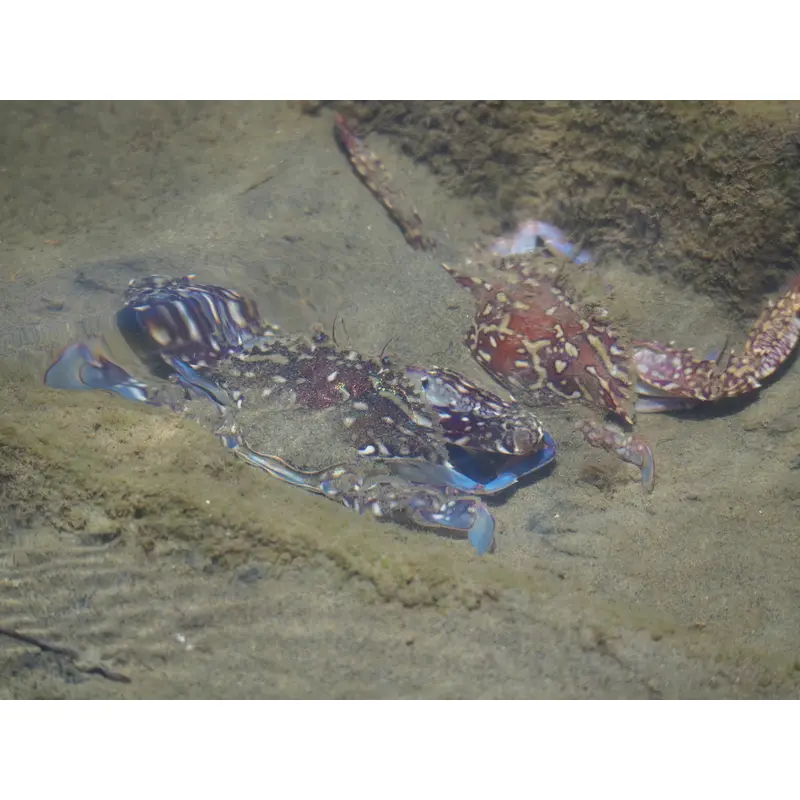
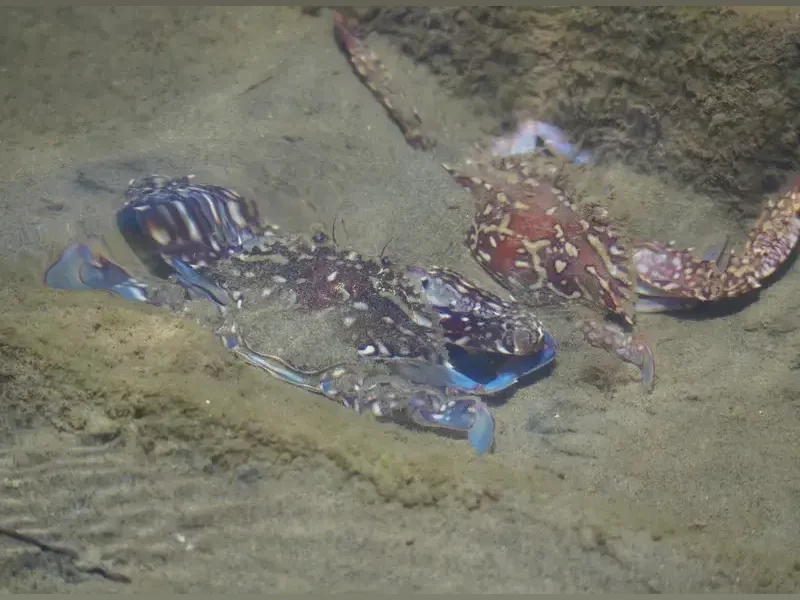
Add Buy now beside Add to cart; make catalogue photos fill the card
Buy now sits next to Add to cart on product cards and in the options sheet,
stacking on narrow cards. Products with more than one preparation or quantity
open the options sheet first. The chosen item goes to /checkout?buy=now, kept
in its own session slot so the cart is untouched; the existing server quote
still prices it.

Seven catalogue photos had white bands baked into square files. They are
trimmed and filled to 4:3 with their own background colour.

diff --git a/src/components/checkout/checkout-content.tsx b/src/components/checkout/checkout-content.tsx
@@ -4,7 +4,7 @@ import Link from "next/link";
 import { reviewCheckout, placeCheckout } from "@/app/checkout/actions";
 import { useRouter } from "next/navigation";
 import { useRef, useState, type FormEvent } from "react";
-import { useCart, clearCart } from "@/lib/cart-store";
+import { useCart, clearCart, useBuyNow, clearBuyNow } from "@/lib/cart-store";
 import { serializeCart } from "@/lib/cart";
 import { orderTotals, validateCheckout } from "@/lib/order";
 import { saveCheckoutDraft, savePendingCheckout, useOrderState } from "@/lib/order-store";
@@ -21,8 +21,12 @@ const fields = [
   { key: "state", label: "State", autoComplete: "address-level1", max: 120 },
   { key: "pincode", label: "Pincode", autoComplete: "postal-code", max: 6 },
 ] as const;
-export function CheckoutContent() {
-  const items = useCart();
+export function CheckoutContent({ buyNow = false }: { buyNow?: boolean }) {
+  const cart = useCart();
+  const buyNowItems = useBuyNow();
+  // Buy now checks out only its own item; the cart is left as it was.
+  const items = buyNow ? buyNowItems : cart;
+  const clearItems = buyNow ? clearBuyNow : clearCart;
   const { ready, draft, pending } = useOrderState();
   const router = useRouter();
   const [quote, setQuote] = useState<Awaited<ReturnType<typeof reviewCheckout>>["quote"]>();
@@ -55,7 +59,7 @@ export function CheckoutContent() {
       finally {submitting.current=false;setSaving(false);}
       return;
     }
-    if (reviewedCart !== serializeCart(items)) { setReview(false); setError("Your cart changed. Please review the updated summary before placing your order."); focusTitle(); return; }
+    if (reviewedCart !== serializeCart(items)) { setReview(false); setError((buyNow ? "Your item" : "Your cart") + " changed. Please review the updated summary before placing your order."); focusTitle(); return; }
     submitting.current = true; setSaving(true);
     try {
       if (!quote) throw new Error("Review your order first.");
@@ -63,7 +67,7 @@ export function CheckoutContent() {
       const order = await placeCheckout(quote.envelope);
       if ("error" in order) {if(order.reviewRequired){savePendingCheckout(null);setReview(false);}throw new Error(order.error);}
       savePendingCheckout(null);
-      clearCart();
+      clearItems();
       router.replace("/order-confirmation/" + order.trackingToken);
     } catch (cause) {
       setError(cause instanceof Error ? cause.message : "Could not place your order. Please try again.");
@@ -73,15 +77,15 @@ export function CheckoutContent() {
   async function retryPending() {
     if(!pending||submitting.current)return;
     submitting.current=true;setSaving(true);
-    try {const result=await placeCheckout(pending);if("trackingToken" in result){savePendingCheckout(null);clearCart();router.replace("/order-confirmation/"+result.trackingToken);}else{if(result.reviewRequired){savePendingCheckout(null);setReview(false);}setError(result.error);}}
+    try {const result=await placeCheckout(pending);if("trackingToken" in result){savePendingCheckout(null);clearItems();router.replace("/order-confirmation/"+result.trackingToken);}else{if(result.reviewRequired){savePendingCheckout(null);setReview(false);}setError(result.error);}}
     catch {setError("Connection interrupted. Retry this same pending order to check confirmation.");}
     finally {submitting.current=false;setSaving(false);}
   }
   if (ready && pending) return <div className="container page-section"><h1>Confirm your pending order</h1><p>A previous submission needs confirmation. Retry the same order to avoid placing it twice.</p>{error&&<p role="alert">{error}</p>}<button className="button primary" disabled={saving} onClick={retryPending}>{saving?"Checking…":"Check order confirmation"}</button></div>;
   if (!ready) return <div className="container page-section"><p role="status">Loading your checkout...</p></div>;
-  if (!items.length && !saving) return <div className="container page-section"><p className="eyebrow">Checkout</p><h1>Your cart is empty</h1><p>Add a selection before starting checkout.</p><Link className="button secondary" href="/search">Continue shopping</Link></div>;
+  if (!items.length && !saving) return <div className="container page-section"><p className="eyebrow">Checkout</p><h1>{buyNow ? "Nothing to buy yet" : "Your cart is empty"}</h1><p>{buyNow ? "Choose a product and press Buy now to check it out on its own." : "Add a selection before starting checkout."}</p><Link className="button secondary" href="/search">Continue shopping</Link></div>;
   return <div className="container page-section checkout-page">
-    <Link className="back-link" href="/cart">&larr; Back to cart</Link><p className="eyebrow">Prepared your way</p>
+    {buyNow ? <Link className="back-link" href="/search">&larr; Continue shopping</Link> : <Link className="back-link" href="/cart">&larr; Back to cart</Link>}<p className="eyebrow">Prepared your way</p>
     <div className="checkout-title"><h1 ref={title} tabIndex={-1}>{review ? "Review your order" : "Checkout"}</h1><span className="checkout-title-note">Your selection. Every detail considered.</span></div>
     <p className="order-preview-note">Final prices, delivery eligibility and charges are checked before you place your order.</p>
     <ol className="checkout-steps" aria-label="Checkout progress"><li aria-current={!review ? "step" : undefined}>1. Your details</li><li aria-current={review ? "step" : undefined}>2. Review & place</li></ol>
@@ -100,6 +104,6 @@ export function CheckoutContent() {
         </section><fieldset className="order-panel payment-panel"><legend><span className="section-number">2</span> Payment method</legend><div className="checkout-options">{([ ["cash", draft.deliveryMethod === "pickup" ? "Cash at pickup" : "Cash on Delivery"], ["upi", "UPI preference"] ] as const).map(([value, label]) => <label className="choice" key={value}><input type="radio" name="paymentMethod" value={value} checked={draft.paymentMethod === value} onChange={() => change("paymentMethod", value)} />{label}</label>)}</div><p className="field-help">Cash is collected at delivery or pickup. UPI records a preference only; online payment is not available here yet. Do not send money based on this page.</p></fieldset>
       </>}
       <button type="submit" className="button primary checkout-submit" disabled={saving || !items.length}>{saving ? "Please wait..." : review ? "Place order" : "Review order"}</button>
-    </fieldset></form><OrderSummary deliveryConfirmed={!!quote && review} editable items={quote && review ? items.map((item,i)=>({...item,...quote.lines[i]})) : items} totals={quote ?? orderTotals(items, draft.deliveryMethod, 0)} /></div>
+    </fieldset></form><OrderSummary deliveryConfirmed={!!quote && review} editable={!buyNow} items={quote && review ? items.map((item,i)=>({...item,...quote.lines[i]})) : items} totals={quote ?? orderTotals(items, draft.deliveryMethod, 0)} /></div>
   </div>;
 }

diff --git a/src/components/product/product-selection.tsx b/src/components/product/product-selection.tsx
@@ -4,13 +4,21 @@ import {isRaw, priceLabel, quantityLabel, quantityOptions, quantityText, saleTot
 
 import Image from "next/image";
 import { createPortal } from "react-dom";
+import { useRouter } from "next/navigation";
 import { useEffect, useId, useRef, useState, type FormEvent, type KeyboardEvent } from "react";
 import type { Product, PreparationId } from "@/types/catalog";
 import type { CartItem } from "@/types/cart";
 import { applicableCleaningLoss, estimateCleanedWeightGrams, MAX_INSTRUCTIONS_LENGTH } from "@/lib/cart";
-import { addCartItem, updateCartItem } from "@/lib/cart-store";
+import { addCartItem, setBuyNowItem, updateCartItem } from "@/lib/cart-store";
 import { formatMoney } from "@/lib/format";
 import { WeightSummary } from "@/components/product/weight-summary";
+
+export const BUY_NOW_CHECKOUT = "/checkout?buy=now";
+
+/** Whether the shopper has to pick a preparation or quantity before buying. */
+export function needsOptions(product: Product) {
+  return product.preparationOptions.length > 1 || quantityOptions(product).length > 1;
+}
 
 export function ProductSelection({ product, item, onClose, onSaved }: { product: Product; item?: CartItem; onClose: () => void; onSaved: () => void }) {
   const id = useId();
@@ -22,6 +30,7 @@ export function ProductSelection({ product, item, onClose, onSaved }: { product:
   const [instructions, setInstructions] = useState(item?.specialInstructions ?? "");
   const [error, setError] = useState("");
   const [saving, setSaving] = useState(false);
+  const router = useRouter();
   const preparation = product.preparationOptions.find(option => option.id === preparationId)!;
   const loss = applicableCleaningLoss(product, preparation);
   const estimated = estimateCleanedWeightGrams(rawWeightGrams, loss);
@@ -62,6 +71,11 @@ export function ProductSelection({ product, item, onClose, onSaved }: { product:
     setSaving(true);
     try {
       const selection = { preparationId, ...(isRaw(product)?{rawWeightGrams}:{quantity:rawWeightGrams}), specialInstructions: instructions };
+      if (!item && (event.nativeEvent as SubmitEvent).submitter?.hasAttribute("data-buy-now")) {
+        setBuyNowItem(product.id, selection, crypto.randomUUID());
+        router.push(BUY_NOW_CHECKOUT);
+        return;
+      }
       if (item) updateCartItem(item.id, selection);
       else addCartItem(product.id, selection, crypto.randomUUID());
       onSaved();
@@ -86,7 +100,7 @@ export function ProductSelection({ product, item, onClose, onSaved }: { product:
         <p id={id + "-instructions-help"} className="field-help">{instructions.length}/{MAX_INSTRUCTIONS_LENGTH} characters. Please do not include personal or payment details.</p>
         {error && <p role="alert" className="cart-error">{error}</p>}
       </div>
-      <div className="selection-footer"><div aria-live="polite" aria-atomic="true">{isRaw(product)?<WeightSummary rawWeightGrams={rawWeightGrams} estimatedCleanedWeightGrams={estimated} cleaningLossPercent={loss} />:<strong>{quantityText(product,rawWeightGrams)}</strong>}</div><div className="selection-total-row"><div><span>Item price</span><strong aria-live="polite" data-item-price>{formatMoney(price)}</strong><small>Based on {quantityText(product,rawWeightGrams)}</small></div><button type="submit" className="button primary" disabled={saving || !product.available}>{saving ? "Saving..." : item ? "Save changes" : "Add to Cart"}</button></div></div>
+      <div className="selection-footer"><div aria-live="polite" aria-atomic="true">{isRaw(product)?<WeightSummary rawWeightGrams={rawWeightGrams} estimatedCleanedWeightGrams={estimated} cleaningLossPercent={loss} />:<strong>{quantityText(product,rawWeightGrams)}</strong>}</div><div className="selection-total-row"><div><span>Item price</span><strong aria-live="polite" data-item-price>{formatMoney(price)}</strong><small>Based on {quantityText(product,rawWeightGrams)}</small></div><div className="selection-actions"><button type="submit" className="button primary" disabled={saving || !product.available}>{saving ? "Saving..." : item ? "Save changes" : "Add to Cart"}</button>{!item && <button type="submit" data-buy-now className="button secondary" disabled={saving || !product.available}>Buy now</button>}</div></div></div>
     </form>
   </dialog>, document.body);
 }

diff --git a/src/lib/cart-store.ts b/src/lib/cart-store.ts
@@ -7,16 +7,19 @@ import type { CartItem, ProductSelection } from "@/types/cart";
 import { cartReducer, createCartItem, restoreCart, serializeCart, type CartAction } from "@/lib/cart";
 
 const STORAGE_KEY = "trait.preview-cart.v1";
+const BUY_NOW_KEY = "trait.buy-now.v1";
 const EMPTY: readonly CartItem[] = [];
 let items = EMPTY;
+// "Buy now" checks out a single item on its own, leaving the cart untouched.
+let buyNow = EMPTY;
 let hydrated = false;
 const listeners = new Set<() => void>();
 
 async function hydrate() {
   if (hydrated || typeof window === "undefined") return;
   hydrated = true;
-  try { const response = await fetch("/api/catalogue", {cache:"no-store"}); if (!response.ok) throw new Error("Catalogue unavailable"); products = await response.json(); items = restoreCart(window.sessionStorage.getItem(STORAGE_KEY), products); }
-  catch { items = EMPTY; } // Storage may be blocked; the in-memory cart still works.
+  try { const response = await fetch("/api/catalogue", {cache:"no-store"}); if (!response.ok) throw new Error("Catalogue unavailable"); products = await response.json(); items = restoreCart(window.sessionStorage.getItem(STORAGE_KEY), products); buyNow = restoreCart(window.sessionStorage.getItem(BUY_NOW_KEY), products).slice(0, 1); }
+  catch { items = EMPTY; buyNow = EMPTY; } // Storage may be blocked; the in-memory cart still works.
   listeners.forEach(listener => listener());
 }
 function subscribe(listener: () => void) {
@@ -45,10 +48,24 @@ export function updateCartItem(id: string, selection: ProductSelection) {
   if (!item) throw new Error("This item is no longer in your cart.");
   dispatch({ type: "update", item: createCartItem(productFor(item.productId), selection, id) });
 }
+export function setBuyNowItem(productId: string, selection: ProductSelection, id: string) {
+  hydrate();
+  buyNow = [createCartItem(productFor(productId), selection, id)];
+  try { window.sessionStorage.setItem(BUY_NOW_KEY, serializeCart(buyNow)); }
+  catch { /* Keep the in-memory item. */ }
+  listeners.forEach(listener => listener());
+}
+export function clearBuyNow() {
+  buyNow = EMPTY;
+  try { window.sessionStorage.removeItem(BUY_NOW_KEY); }
+  catch { /* Nothing stored. */ }
+  listeners.forEach(listener => listener());
+}
 export function removeCartItem(id: string) { dispatch({ type: "remove", id }); }
 export function clearCart() { dispatch({ type: "clear" }); }
 function getSnapshot() { return items; }
 function getServerSnapshot() { return EMPTY; }
 export function useCart() { return useSyncExternalStore(subscribe, getSnapshot, getServerSnapshot); }
+export function useBuyNow() { return useSyncExternalStore(subscribe, () => buyNow, getServerSnapshot); }
 
 export function useCatalogue() { useCart(); return products; }

diff --git a/src/components/product/add-product-button.tsx b/src/components/product/add-product-button.tsx
@@ -1,13 +1,30 @@
 "use client";
 import Link from "next/link";
+import { useRouter } from "next/navigation";
 import { useState } from "react";
 import type { Product } from "@/types/catalog";
-import { ProductSelection } from "@/components/product/product-selection";
+import { isRaw, quantityOptions } from "@/lib/pricing";
+import { setBuyNowItem } from "@/lib/cart-store";
+import { BUY_NOW_CHECKOUT, needsOptions, ProductSelection } from "@/components/product/product-selection";
 export function AddProductButton({ product }: { product: Product }) {
   const [open, setOpen] = useState(false);
   const [added, setAdded] = useState(false);
-  return <div className="product-add"><button className="add-button" type="button" disabled={!product.available || product.orderable===false} onClick={() => { setAdded(false); setOpen(true); }} aria-label={product.available ? "Choose " + product.name : product.name + " is sold out"}>{product.orderable===false?"Ordering unavailable":"Add to cart"}</button>
+  const [error, setError] = useState("");
+  const router = useRouter();
+  const disabled = !product.available || product.orderable === false;
+  function choose() { setAdded(false); setError(""); setOpen(true); }
+  function buyNow() {
+    if (needsOptions(product)) return choose();
+    try {
+      const amount = quantityOptions(product)[0];
+      setBuyNowItem(product.id, { preparationId: product.preparationOptions[0].id, ...(isRaw(product) ? { rawWeightGrams: amount } : { quantity: amount }), specialInstructions: "" }, crypto.randomUUID());
+      router.push(BUY_NOW_CHECKOUT);
+    } catch (cause) { setError(cause instanceof Error ? cause.message : "Could not start checkout. Please try again."); }
+  }
+  return <div className="product-add"><div className="product-actions"><button className="add-button" type="button" disabled={disabled} onClick={choose} aria-label={product.available ? "Choose " + product.name : product.name + " is sold out"}>{product.orderable===false?"Ordering unavailable":"Add to cart"}</button>
+    {product.orderable !== false && <button className="add-button buy-now-button" type="button" disabled={disabled} onClick={buyNow} aria-label={"Buy " + product.name + " now"}>Buy now</button>}</div>
     {added && <span className="added-feedback" role="status">Added. <Link href="/cart">View cart</Link></span>}
+    {error && <span className="cart-error" role="alert">{error}</span>}
     {open && <ProductSelection product={product} onClose={() => setOpen(false)} onSaved={() => setAdded(true)} />}
   </div>;
 }

diff --git a/src/app/globals.css b/src/app/globals.css
@@ -819,3 +819,19 @@ h3 { letter-spacing:.01em; }
   .product-add { align-items:stretch; }
   .add-button { width:100%; min-width:0; padding-inline:10px; }
 }
+
+/* Add to cart + Buy now: side by side under the price, stacked when the card is narrow. */
+.product-bottom:has(.buy-now-button) { flex-direction:column; align-items:stretch; gap:10px; }
+.product-actions { display:flex; gap:8px; }
+.product-actions .add-button { flex:1 1 0; min-width:0; padding-inline:10px; }
+.add-button.buy-now-button { background:var(--background); color:var(--brand-red); }
+.add-button.buy-now-button:enabled:hover { background:var(--brand-red-light); color:var(--brand-red-dark); }
+.selection-actions { display:flex; flex-wrap:wrap; gap:8px; justify-content:flex-end; }
+@container (max-width:240px) {
+  .product-actions { flex-direction:column; }
+  .product-actions .add-button { width:100%; }
+}
+@media(max-width:420px) {
+  .selection-total-row { flex-direction:column; align-items:stretch; }
+  .selection-actions .button { flex:1; }
+}

diff --git a/src/app/checkout/page.tsx b/src/app/checkout/page.tsx
@@ -1,4 +1,6 @@
 import type { Metadata } from "next";
 import { CheckoutContent } from "@/components/checkout/checkout-content";
 export const metadata: Metadata = { title: "Checkout" };
-export default function Page() { return <CheckoutContent />; }
+export default async function Page({ searchParams }: { searchParams: Promise<{ buy?: string | string[] }> }) {
+  return <CheckoutContent buyNow={(await searchParams).buy === "now"} />;
+}
